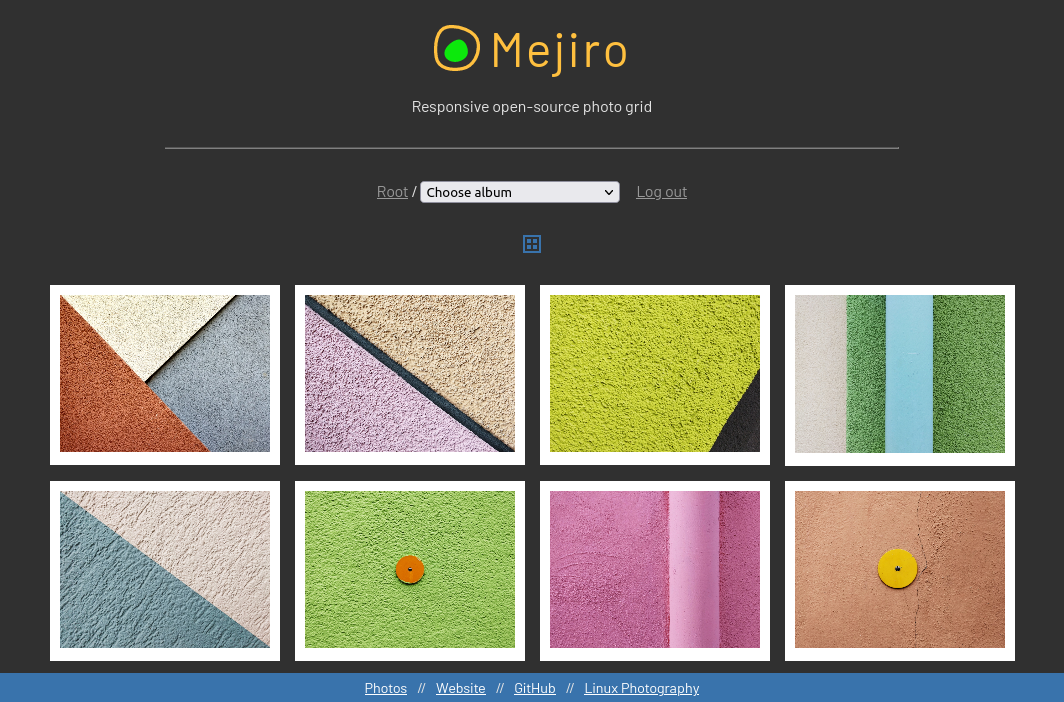
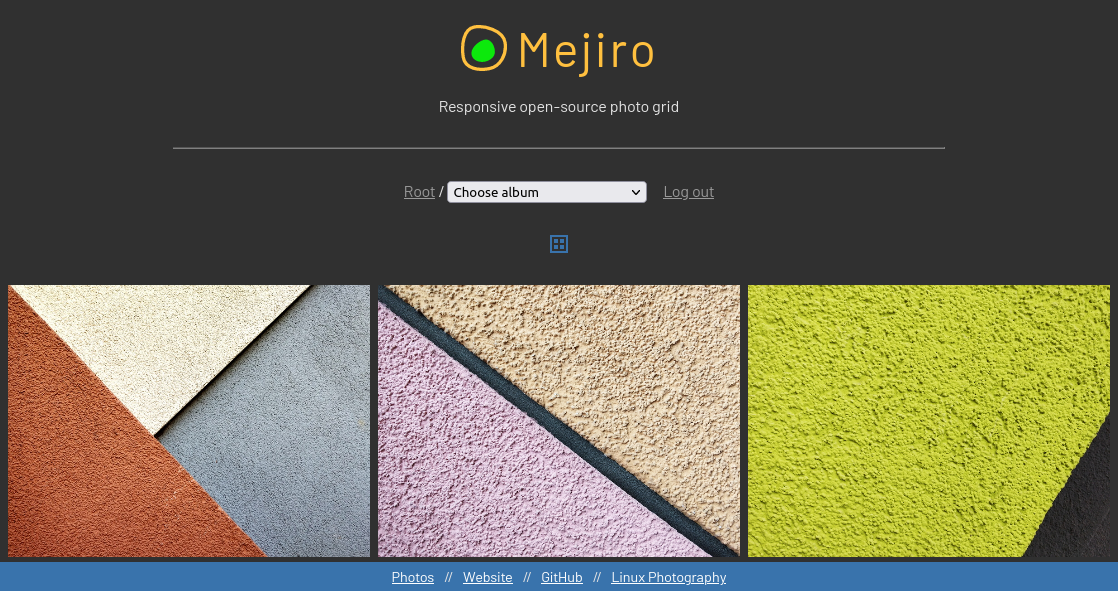
Simplify grid CSS

diff --git a/styles.css b/styles.css
@@ -58,41 +58,16 @@ p {
 }
 
 p.caption {
-    border-style: none;
-    border-width: 1px;
     font-size: 1em;
-    padding: 5px;
-    color: #303030 !important;
-    margin-bottom: 0px;
-    margin-left: auto;
-    margin-right: auto;
-    line-height: 2.0em;
-    text-align: center;
-}
-
-p.box {
-    width: auto;
-    border-style: dotted;
-    border-width: 1px;
-    font-size: 1em;
-    padding: 5px;
     color: #e3e3e3;
-    margin-bottom: 0px;
     margin-left: auto;
     margin-right: auto;
-    line-height: 2.0em;
+    line-height: 1.0em;
     text-align: center;
 }
 
 #content {
     color: #e3e3e3;
-}
-
-.text {
-    text-align: center;
-    padding: 0px;
-    color: inherit;
-    float: left;
 }
 
 .center {
@@ -117,92 +92,36 @@ p.box {
     background: #3973ac;
 }
 
-/* Responsive grid based on http://alijafarian.com/responsive-image-grids-using-css/ */
-
-ul.rig {
-    list-style: none;
-    font-size: 0px;
-    margin-left: -1.3%;
-    /* should match li left margin */
-}
-
-ul.rig li {
-    display: inline-block;
-    padding: 10px;
-    margin: 0 0 1.5% 1.5%;
-    background: #fff;
-    font-size: 16px;
-    font-size: 1rem;
-    vertical-align: top;
-    box-sizing: border-box;
-    -moz-box-sizing: border-box;
-    -webkit-box-sizing: border-box;
-}
-
-ul.rig li img {
+/* Grid */
+/* https://www.imarketinx.de/artikel/responsive-image-gallery-with-css-grid.html */
+.gallery-grid {
+    display: grid;
+    grid-template-columns: repeat(auto-fit, minmax(300px, 1fr));
+    grid-gap: 0.5rem;
+    justify-items: center;
+    margin: 0;
+    padding: 0;
+  }
+  
+  /* Picture frame */
+  .gallery-frame {
+    padding: 1rem;
+    font-size: 1.2rem;
+    text-align: center;
+    color: #d9d9d9;
+  }
+  
+  /* Image */
+  .gallery-img {
     max-width: 100%;
     height: auto;
-}
-
-ul.rig li h3 {
-    margin: 0 0 1px;
-}
-
-ul.rig li p {
-    font-size: .9em;
-    line-height: 2.0em;
-    color: #999;
-}
-
-/* class for 1 column */
-
-ul.rig.column-1 li {
-    width: 43.3%;
-    /* this value + 2.5 should = 50% */
-}
-
-/* class for 2 columns */
-
-ul.rig.columns-2 li {
-    width: 47.5%;
-    /* this value + 2.5 should = 50% */
-}
-
-/* class for 3 columns */
-
-ul.rig.columns-3 li {
-    width: 30.83%;
-    /* this value + 2.5 should = 33% */
-}
-
-/* class for 4 columns */
-
-ul.rig.columns-4 li {
-    width: 22.5%;
-    /* this value + 2.5 should = 25% */
-}
-
-@media (max-width: 480px) {
-    ul.grid-nav li {
-        display: block;
-        margin: 0 0 5px;
-    }
-    ul.grid-nav li a {
-        display: block;
-    }
-    ul.rig {
-        margin-left: 0;
-    }
-    ul.rig li {
-        width: 100% !important;
-        /* over-ride all li styles */
-        margin: 0 0 20px;
-    }
-    * {
-        margin: 0;
-        padding: 0;
-    }
-}
+    object-fit: cover;
+    transition: opacity 0.25s ease-in-out;
+  }
+  
+  .gallery-img:hover {
+    opacity: .7;
+  }
 
 @font-face {
     font-family: 'Barlow-Regular';

diff --git a/index.php b/index.php
@@ -44,7 +44,7 @@ if ($protect && !in_array($_GET['d'], $public_albums)) {
 		}
 		$photo_dir = str_replace(DIRECTORY_SEPARATOR . DIRECTORY_SEPARATOR, DIRECTORY_SEPARATOR, $base_photo_dir . DIRECTORY_SEPARATOR . $sub_photo_dir . DIRECTORY_SEPARATOR);
 
-    /*
+		/*
 	 * Returns an array of latitude and longitude from the image file.
 	 * @param image $file
 	 * @return multitype:number |boolean
@@ -96,7 +96,7 @@ if ($protect && !in_array($_GET['d'], $public_albums)) {
 
 		// Check whether the required directories exist
 		if (!file_exists($photo_dir) || !file_exists($photo_dir . 'tims')) {
-            mkdir($photo_dir, 0777, true);
+			mkdir($photo_dir, 0777, true);
 			mkdir($photo_dir . 'tims', 0777, true);
 			echo ('<h3>Add photos to the <strong>photos</strong> directory, then refresh this page.</h3>');
 		}
@@ -109,10 +109,10 @@ if ($protect && !in_array($_GET['d'], $public_albums)) {
 			rsort($files);
 		}
 
-        // Update count (we might have removed some files)
-        $file_count = count($files);
+		// Update count (we might have removed some files)
+		$file_count = count($files);
 
-        // Generate missing tims
+		// Generate missing tims
 		for ($i = 0; $i < $file_count; $i++) {
 			$file  = $files[$i];
 			$tim = $photo_dir . 'tims/' . basename($file);
@@ -180,20 +180,20 @@ if ($protect && !in_array($_GET['d'], $public_albums)) {
 				$higher_dirs = explode("/", $sub_photo_dir);
 				$higher_dir_cascade = "";
 				foreach ($higher_dirs as $higher_dir) {
-                    if (!empty($higher_dir)) {
-                        if (!empty($higher_dir_cascade)) {
-                            $higher_dir_cascade = $higher_dir_cascade . DIRECTORY_SEPARATOR;
-                        }
-                        $higher_dir_cascade = $higher_dir_cascade . $higher_dir;
-                        echo "<a href='"  . basename($_SERVER['PHP_SELF']) . "?d=" . $higher_dir_cascade . "'>" . $higher_dir . "</a> /&nbsp;";
-                    }
+					if (!empty($higher_dir)) {
+						if (!empty($higher_dir_cascade)) {
+							$higher_dir_cascade = $higher_dir_cascade . DIRECTORY_SEPARATOR;
+						}
+						$higher_dir_cascade = $higher_dir_cascade . $higher_dir;
+						echo "<a href='"  . basename($_SERVER['PHP_SELF']) . "?d=" . $higher_dir_cascade . "'>" . $higher_dir . "</a> /&nbsp;";
+					}
 				}
 
 				echo '<select style="width: 15em;" name="" onchange="javascript:location.href = this.value;">';
 				echo '<option value="Default">Choose album</option>';
 				foreach ($sub_dirs as $dir) {
 					$dir_name = basename($dir);
-					$dir_option=str_replace('\'', '&apos;', $sub_photo_dir . DIRECTORY_SEPARATOR . $dir_name);
+					$dir_option = str_replace('\'', '&apos;', $sub_photo_dir . DIRECTORY_SEPARATOR . $dir_name);
 					echo "<option value='?d=" . $dir_option . "'>" . $dir_name . "</option>";
 				}
 				echo "</select>";
@@ -203,9 +203,9 @@ if ($protect && !in_array($_GET['d'], $public_albums)) {
 				echo "</div>";
 			}
 
-            if ($file_count < 1) {
-                echo ('<h3>Add photos to the <strong>photos</strong> directory, then refresh this page.</h3>');
-            }
+			if ($file_count < 1) {
+				echo ('<h3>Add photos to the <strong>photos</strong> directory, then refresh this page.</h3>');
+			}
 
 			if (!isset($_GET["all"])) {
 				$all = null;
@@ -213,25 +213,24 @@ if ($protect && !in_array($_GET['d'], $public_albums)) {
 			if (isset($_GET["all"]) != 1 && $file_count > $per_page) {
 				echo '<div class="center"><a href=?all=1' . '&d=' . urlencode($sub_photo_dir) . '><img src="svg/display-grid.svg"/></a></div>';
 			}
-			echo "<ul class='rig columns-" . $columns . "'>";
 
+			echo '<div class="gallery-grid" style="margin-bottom: .5em;">';
 			if ($all == 1) {
 				for ($i = 0; $i < $file_count; $i++) {
 					$file = $files[$i];
 					$tim = $photo_dir . 'tims/' . basename($file);
 					$file_path = pathinfo($file);
-					echo '<li><a href="index.php?all=1&photo=' . $file . '&d=' . $sub_photo_dir . '"><img src="' . $tim . '" alt="' . $file_path['filename'] . '" title="' . $file_path['filename'] . '"></a></li>';
+					echo '<a href="index.php?all=1&photo=' . $file . '&d=' . $sub_photo_dir . '"><img class="gallery-img" src="' . $tim . '" alt="' . $file_path['filename'] . '" title="' . $file_path['filename'] . '"></a>';
 				}
 			} else {
 				for ($i = $offset; $i < $max; $i++) {
 					$file = $files[$i];
 					$tim = $photo_dir . 'tims/' . basename($file);
 					$file_path = pathinfo($file);
-					echo '<li><a href="index.php?all=1&photo=' . $file . '&d=' . $sub_photo_dir . '"><img src="' . $tim . '" alt="' . $file_path['filename'] . '" title="' . $file_path['filename'] . '"></a></li>';
+					echo '<a href="index.php?all=1&photo=' . $file . '&d=' . $sub_photo_dir . '"><img class="gallery-img" src="' . $tim . '" alt="' . $file_path['filename'] . '" title="' . $file_path['filename'] . '"></a>';
 				}
 			}
-
-			echo "</ul>";
+			echo "</div>";
 		}
 
 		if (isset($_GET["all"]) != 1) {
@@ -353,7 +352,7 @@ if ($protect && !in_array($_GET['d'], $public_albums)) {
 			$info = "<span style='word-spacing:1em'>" . $photo_info . "</span>";
 			$Parsedown = new Parsedown();
 			// Show photo, EXIF data, description, and info
-			echo '<div class="center"><ul class="rig column-1"><li><a href="' . $file . '" download><img src="' . $tim . '" alt=""></a><p class="caption">' . $comment . ' ' . $Parsedown->text($description) . '</p><p class="box">' . $info . '</p></li></ul></div>';
+			echo '<div class="center"><a href="' . $file . '" download><img class="gallery-img" src="' . $tim . '" alt=""></a><p class="caption">' . $comment . ' ' . $Parsedown->text($description) . '</p><hr style="width: 3em;"><p class="caption">' . $info . '</p>';
 		}
 
 		// Show links

diff --git a/config.php b/config.php
@@ -4,7 +4,6 @@ $tagline = "Responsive open-source photo grid";
 $protect = false; // Enable password protection
 $password = array("monkey", "banana"); // If $protect is set to true, specify one or more passwords.
 $public_albums = array("Album 1", "Album 2"); // Albums to exclude from being password-protected.
-$columns = 4; // Specify the number of columns in the grid layout (2, 3, or 4)
 $per_page = 12; // Number of images per page for pagination
 $footer = "<a style='color: white' href='https://gumroad.com/l/linux-photography'>Linux Photography</a>";
 $base_photo_dir = "photos"; // Directory for storing photos
